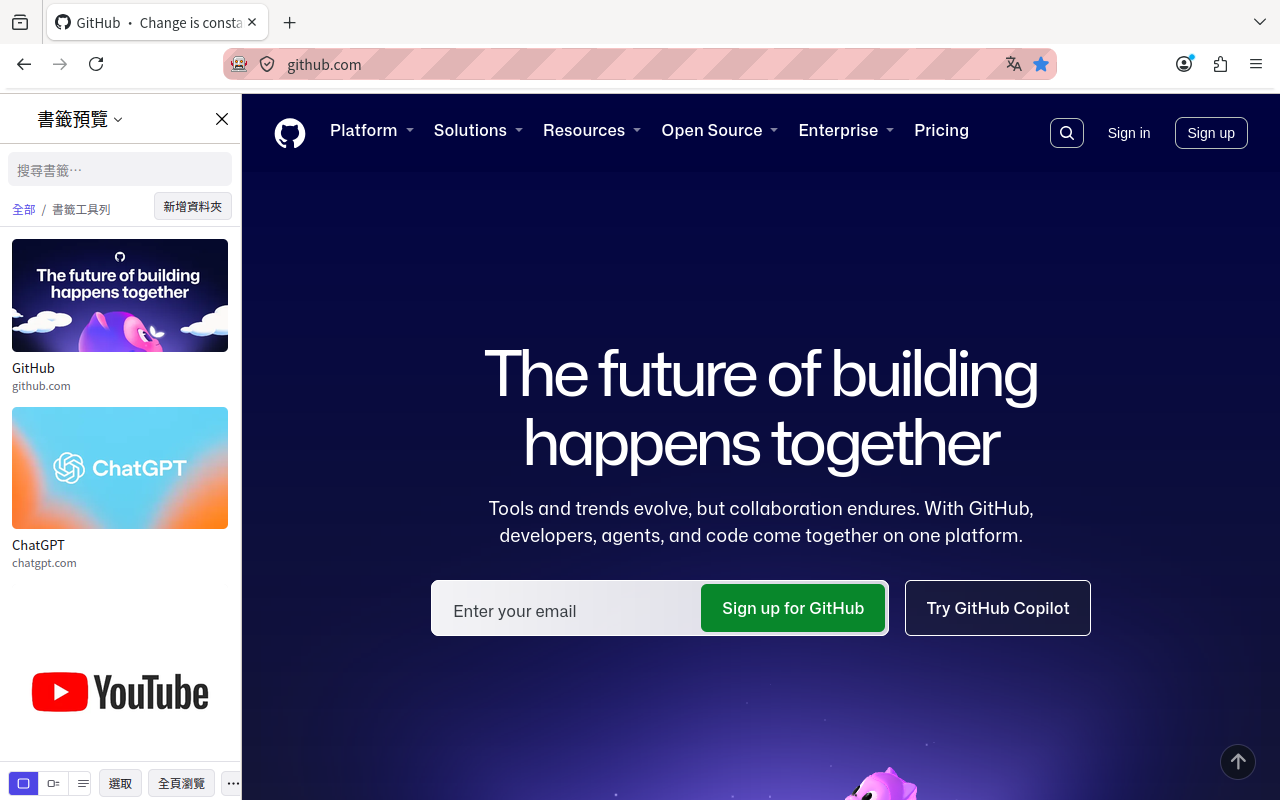
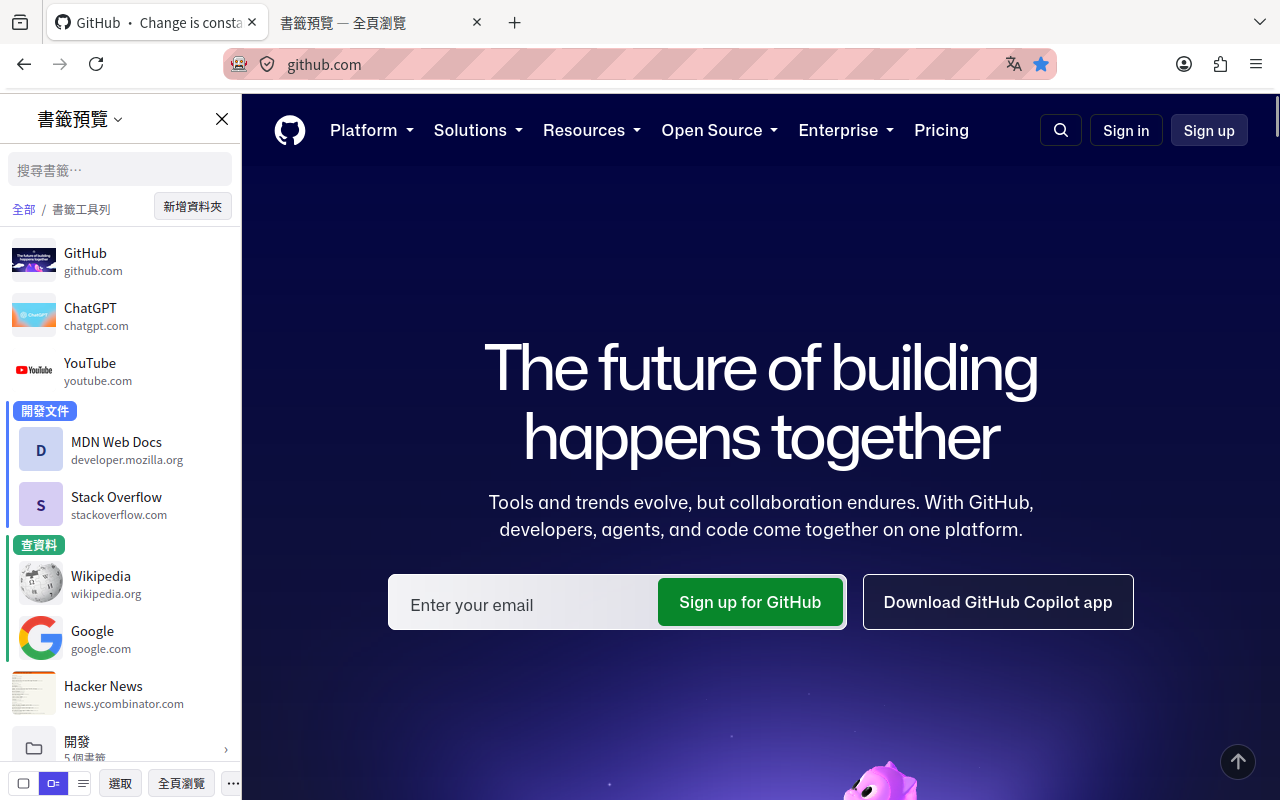
docs(amo): 1.2.0 screenshots with groups; hand over submission state

diff --git a/NEXT.md b/NEXT.md
@@ -1,8 +1,35 @@
 # 接手指南 / 待辦
 
-最後更新：2026-10-08（**1.1.1 已公開上架；1.2.0 的第 1～4 期都做完、實機驗過、已 commit（領先 `origin/main` 兩顆，還沒推送）。下一步：寫 1.2.0 的送審文案並送審**）
+最後更新：2026-10-08（**1.2.0 的送審文案、截圖、打包都做好了，等使用者自己上傳送審**）
 
-## 下一個 session 從這裡開始：1.2.0 送審文案
+## 下一個 session 從這裡開始：1.2.0 送審
+
+2026-10-08 做完的（下面原本的第 0～5 步）：
+
+- ✅ 0. 推送：開工時 `main` 已經與 `origin/main` 同步。
+- ✅ 1. 隱私說法：隱私政策（中英）、`listing.md` 的「隱私」段與摘要、`permissions.md` 的 `storage` 列都改了 ——
+  會離開裝置的情況從兩種變三種，第 2 種是「書籤群組透過 Firefox 同步，預設開啟，擴充套件不另外加密
+  （與書籤標題同性質）、不含隱私空間、20 KB、設定頁關掉會從同步空間移除」。**使用者還沒看過改寫後的說法**；
+  若覺得預設開不妥，改 `src/storage/settings.ts` 的 `syncGrid` 預設值，文案也要跟著改回「預設關」。
+- ✅ 2. `reviewer-notes.md` 的「New in 1.2.0」換好，`amo-paste.py` 量出 **2820 字元**（比「2000 出頭」的目標多，
+  多的是新的 `storage.sync` 揭露，那句不能砍）。重建驗證：`git archive HEAD` 乾淨目錄 `npm ci && npm run build`，
+  24 個檔案與 `dist/` 逐檔相同（Node v22.21.1）。
+- ✅ 3. `listing.md`：「版本說明（1.2.0）」中英各一份；完整描述新增「整理：拖拽、群組與搜尋」一段，鍵盤段補 `Ctrl+Shift+方向鍵`。
+- ✅ 4. 截圖：換掉 `01-sidebar.png`（小列密度，兩個群組的色條＋標籤）、`02-gallery.png`（兩個框線群組）；
+  說明文字與拍法寫進 `amo/README.md`。`03`、`04` 沒換（畫面沒變到需要換）。
+- ✅ 5. `npm run verify` 全綠（369 項）、`npm run package`、`npm run package:source` 都跑了，`amo/README.md` 的版號改成 1.2.0。
+
+**剩下要使用者自己做的**：把 `web-ext-artifacts/bookmark-preview-vault-1.2.0.zip` 與 `…-1.2.0-source.zip` 上傳到 AMO、
+貼文案（先 `python3 scripts/amo-paste.py`）、換兩張截圖與說明文字。送出後照「上架狀態」那段的 `curl` 查結果，結果寫回這裡。
+
+**這次發現、沒修的**：側邊欄寬 240px 時，底部工具列（密度三鈕＋選取＋全頁瀏覽＋⋯）比頁面寬約 6px，
+`⋯` 被切掉一截，而且焦點一移動整個側邊欄文件會往左捲 6px（左邊被切掉）。1.0 的截圖就已經這樣，不是 1.2.0 的回歸。
+`src/sidebar/styles.css` 的 `.toolbar__bar` 註解寫「已確認 320px 放得下」—— 240px 沒算進去。修法候選：`html, body { overflow-x: hidden }`
+擋住捲動（治標），或讓工具列在窄寬度時收掉一顆按鈕。要先確認 Firefox 側邊欄實際能拉到多窄。
+
+以下是原本的交接內容（第 0～5 步的原文，留著當紀錄）：
+
+### （原文）1.2.0 送審文案
 
 使用者 2026-10-08 說功能「差不多了」，下一個 session 專做送審。照這個順序：
 
